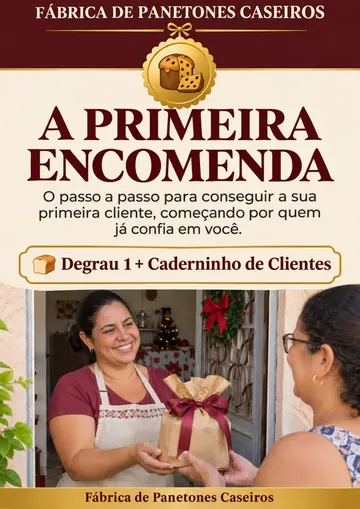
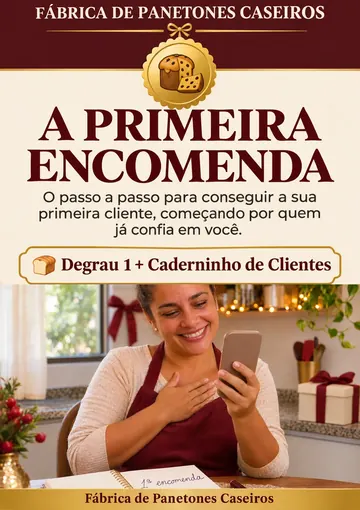
Fotos novas: Videoaulas, Aulas em vídeo e capa da Primeira Encomenda
- cenas/videoaulas.webp no card da Seleção especial e na tela de venda das Videoaulas
- cenas/aulas-em-video.webp no card 'Aulas em vídeo' (object-position 80% mantém rosto e caderno)
- capa e mockup da Primeira Encomenda com a foto nova; título, layout e moldura iguais
- cenas/receitas.webp fica sem uso, mas não foi apagada

Claude-Session: https://claude.ai/code/session_01YWbuPZPoS9BLBCH9fdPbmo

diff --git a/src/telas/Painel.tsx b/src/telas/Painel.tsx
@@ -101,7 +101,7 @@ export function Painel() {
       {aulas && (
         <div className="video-upsell aulas-entrada">
           <button className="video-tela" aria-label="Abrir as aulas em vídeo" onClick={() => { clique('aulas'); ir({ t: 'aulas' }) }}>
-            <img src={cena('receitas')} alt="" loading="lazy" />
+            <img src={cena('aulas-em-video')} alt="" loading="lazy" style={{ objectPosition: '80% 50%' }} />
             <span className="play" aria-hidden="true">▶</span>
             <span className="video-titulo">Aulas em vídeo · {(estado.aulas ?? []).length} de {AULAS.length} assistidas</span>
           </button>
@@ -173,7 +173,7 @@ export function Painel() {
           {mostrarOfertaVideo && (
             <div className="video-upsell">
               <button className="video-tela" aria-label="Assistir às videoaulas" onClick={abrirVideoaulas}>
-                <img src={cena('receitas')} alt="" loading="lazy" />
+                <img src={cena('videoaulas')} alt="" loading="lazy" />
                 <span className="play" aria-hidden="true">▶</span>
                 <span className="video-titulo">{VIDEOAULAS.titulo}</span>
               </button>

diff --git a/src/imagens.ts b/src/imagens.ts
@@ -6,7 +6,7 @@ import type { MaterialId, ProdutoId } from '../shared/catalogo'
 export const fotoReceita = (n: number) => `img/receitas/${String(n).padStart(3, '0')}.webp`
 export const fotoSos = (ficha: number) => `img/sos/${String(ficha).padStart(2, '0')}.webp`
 export const capa = (m: MaterialId) => `img/capas/${m}.webp`
-export const cena = (c: 'sos' | 'receitas' | 'presentes' | 'boas-vindas') => `img/cenas/${c}.webp`
+export const cena = (c: 'sos' | 'receitas' | 'presentes' | 'boas-vindas' | 'videoaulas' | 'aulas-em-video') => `img/cenas/${c}.webp`
 export const fotoEtapa = (n: number) => `img/modulos/${n}.webp`
 export const fotoBau = (b: string) => `img/baus/${b}.webp`
 

diff --git a/src/telas/OfertaVideo.tsx b/src/telas/OfertaVideo.tsx
@@ -65,7 +65,7 @@ export function OfertaVideo() {
       <h1>{VIDEOAULAS.gancho}</h1>
       <div className="card oferta">
         <div className="video-tela" aria-hidden="true">
-          <img src={cena('receitas')} alt="" />
+          <img src={cena('videoaulas')} alt="" />
           <span className="play">▶</span>
         </div>
         <h3>{VIDEOAULAS.nome}</h3>
